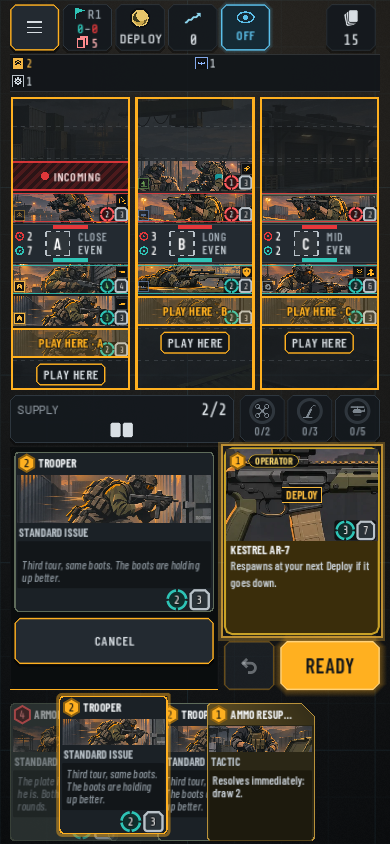
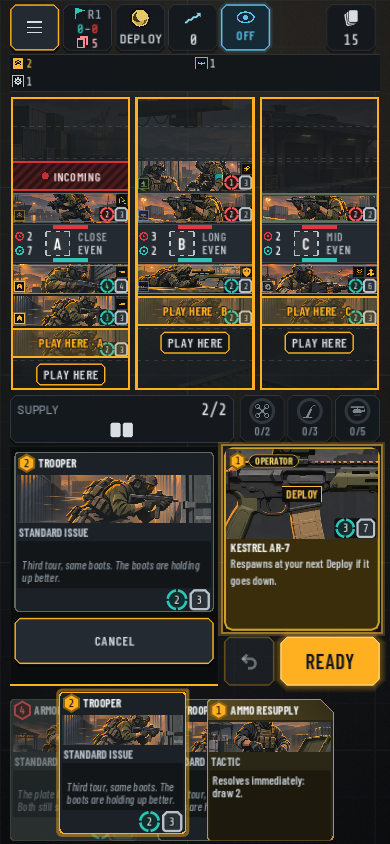
kc-portrait: whole card names and lore in portrait (starter squad stacks and scrolls, wider fan cards, T1 title slot), truncation test; 547 tests
Claude-Session: https://claude.ai/code/session_01JmVwVgoeVTdNBC1RfBf5V4

Changed region(s): [[0.0308, 0.5237, 0.9846, 1.0], [0.0308, 0.9242, 0.1538, 0.955], [0.1846, 0.9858, 0.2769, 1.0]]

diff --git a/projects/killingcard/documentation/ux/board-layout-v2.md b/projects/killingcard/documentation/ux/board-layout-v2.md
@@ -412,3 +412,13 @@ The head: "the default one on PC and landscape should have the cards in the hand
 - title, loadout, run map, Codex, Supply Drop and the pause menu keep every button and label on screen in portrait.
 
 Screenshots (390x844, public art only) are in `qa/screenshots/portrait/`: the match at rest, a raised card, PLAY HERE (2x), mulligan, Supply Drop, run map, title, Codex, loadout. The tool is `tests/tools/shot_portrait.gd`.
+
+**Follow-up (review: whole names in portrait).**
+- **Starter squad (Loadout > OPERATOR & DECK):** in portrait the Operators stack above the deck list in one page scroll.
+  - Operator cards are 250 px wide with their info beside them; the info line wraps instead of ending in "...".
+  - Deck cards are two per row, about 250 px wide.
+  - The hint beside the title is hidden in portrait.
+- **Hand fan:** fan cards are 176 px wide.
+- **Tactics:** the T1 cut corner no longer shortens the title slot, so BREACH AND CLEAR fits at 172 px.
+- **Test:** `test_portrait::test_portrait_cards_show_whole_names_and_lore` checks at 390x844 and 360x780 that no Y2+ title or lore line is cut on these screens: starter squad, Codex, Supply Drop, every card at the 172 px Muster out / Salvage width, mulligan, hand fan. A 124 px probe confirms the check catches a cut name.
+- **Totals:** 547 tests pass. Screenshots re-shot, including `10_starter_squad.png`.
